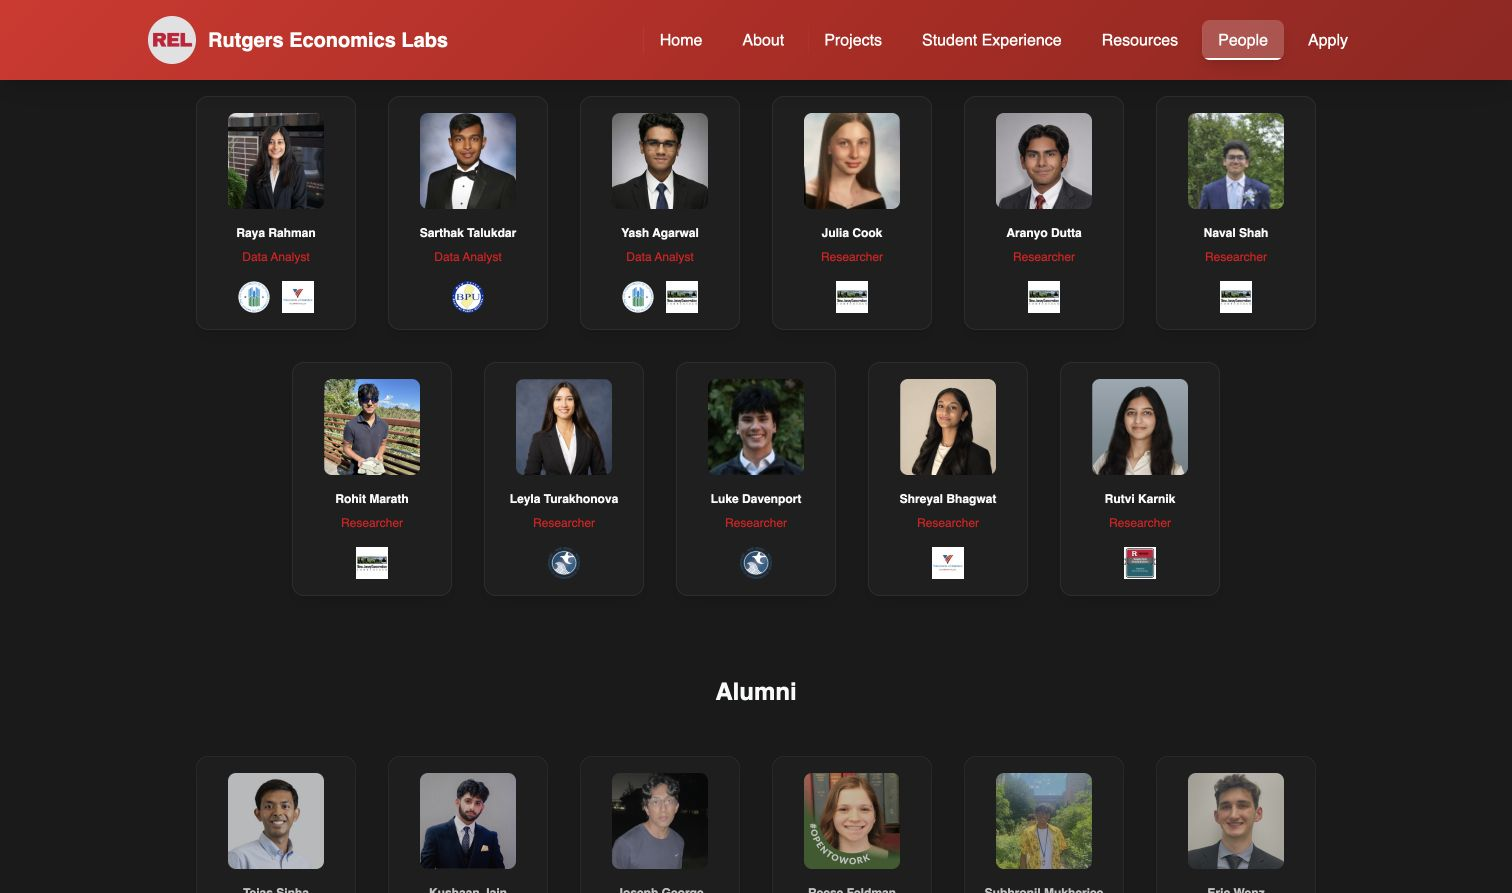
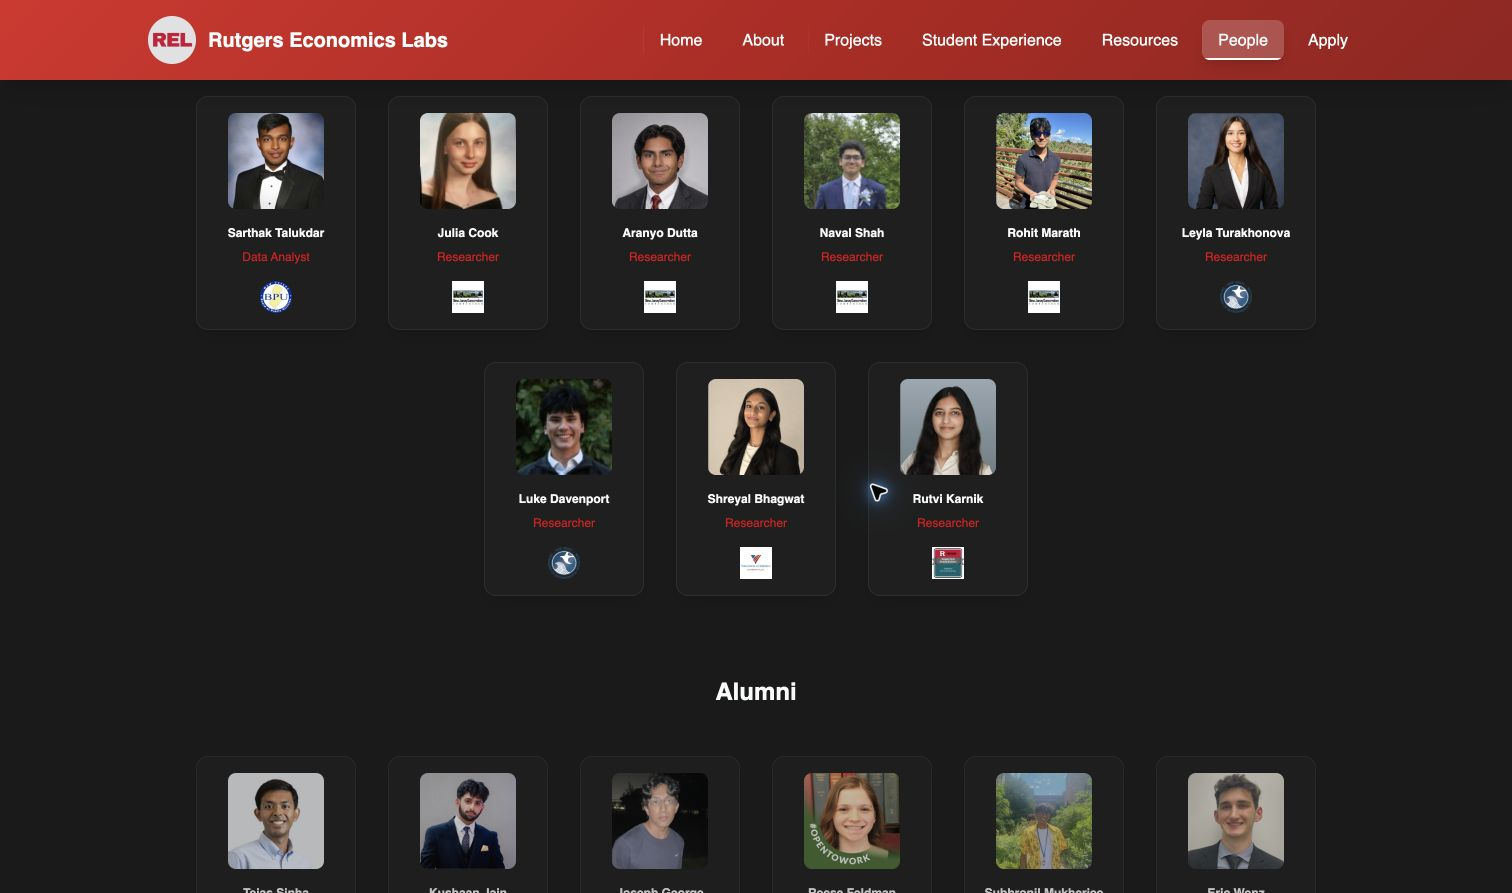
Update current project leads and executive board roles

diff --git a/src/app/people/page.tsx b/src/app/people/page.tsx
@@ -85,26 +85,31 @@ export default function PeoplePage() {
           </p>
         </div>
         {/* Executive Board */}
-        <div className="mb-20 text-center">
-          <h4 className="text-2xl font-bold text-[var(--text-primary)] mb-7 text-center">Executive Board</h4>
+        <section id="executive-board" aria-labelledby="executive-board-heading" className="mb-20 text-center scroll-mt-24">
+          <h2 id="executive-board-heading" className="text-2xl font-bold text-[var(--text-primary)] mb-7 text-center">Executive Board</h2>
           <div className="flex flex-wrap justify-center gap-8 text-center">
             {team.executiveBoard.map((member: TeamMember) => (
               <TeamMemberCard key={member.name} member={member} section="executive" />
             ))}
           </div>
-        </div>
+          <div className="flex flex-wrap justify-center gap-8 mt-8 text-center">
+            {team.formerTeamLeads.map((member: TeamMember) => (
+              <TeamMemberCard key={member.name} member={member} section="board" />
+            ))}
+          </div>
+        </section>
         {/* Team Leads */}
-        <div className="mb-20 text-center">
-          <h4 className="text-2xl font-bold text-[var(--text-primary)] mb-12 text-center">Team Leads</h4>
+        <section id="team-leads" aria-labelledby="team-leads-heading" className="mb-20 text-center scroll-mt-24">
+          <h2 id="team-leads-heading" className="text-2xl font-bold text-[var(--text-primary)] mb-12 text-center">Current Team Leads</h2>
           <div className="flex flex-wrap justify-center gap-6 text-center">
             {team.teamLeads.map((member: TeamMember) => (
               <TeamMemberCard key={member.name} member={member} section="leads" />
             ))}
           </div>
-        </div>
+        </section>
         {/* Members */}
         <div className="mb-20 text-center">
-          <h4 className="text-2xl font-bold text-[var(--text-primary)] mb-12 text-center">Members</h4>
+          <h2 className="text-2xl font-bold text-[var(--text-primary)] mb-12 text-center">Members</h2>
           <div className="flex flex-wrap justify-center gap-8 text-center">
             {team.members.map((member: TeamMember) => (
               <TeamMemberCard key={member.name} member={member} section="members" />
@@ -113,7 +118,7 @@ export default function PeoplePage() {
         </div>
         {/* Alumni */}
         <div className="text-center">
-          <h4 className="text-2xl font-bold text-[var(--text-primary)] mb-12 text-center">Alumni</h4>
+          <h2 className="text-2xl font-bold text-[var(--text-primary)] mb-12 text-center">Alumni</h2>
           <div className="flex flex-wrap justify-center gap-8 text-center">
             {team.alumni.map((member: TeamMember) => (
               <TeamMemberCard key={member.name} member={member} section="alumni" />

diff --git a/docs/screenshots/fall-2026-update/README.md b/docs/screenshots/fall-2026-update/README.md
@@ -7,9 +7,14 @@ Captured November 6, 2026 in Chrome. Updated screenshots show the local producti
 - `projects-original-format-mobile.jpg`: restored project layout at 390 CSS pixels.
 - `people-real-photos-desktop.jpg`: all eight new researchers with LinkedIn portraits and organization logos inside the existing cards.
 - `people-real-photos-mobile.jpg`: portraits and affiliation logos at 390 CSS pixels.
+- `executive-board-desktop.jpg`: one Executive Board section, including four people explicitly titled Former Team Lead.
+- `current-team-leads-desktop.jpg`: the four confirmed current project leads.
+- `current-team-leads-mobile.jpg`: current-lead cards at 390 CSS pixels.
 
 The user requested the original visual format. Text placeholders and current-team chips have been replaced by real portraits and affiliation logos. The original project list presentation is restored. Source links are in [image-sources.md](image-sources.md). Superseded screenshots of the chip design were removed.
 
 Content basis: October 24 kickoff follow-up naming four working groups; November 4–6 project coordination; full project scope drafts and November 6 team briefings. Older planning-sheet recommendations were not used as assignments. Private correspondence, applicant records, contact details and partner files are excluded.
 
 Verification: production build, static export, TypeScript and SEO checks passed. Every portrait/logo file exists; member names are unique; all 15 project-to-person assignments resolve. Browser verification confirmed loaded new portraits and logos, no team-chip links, 15 plain-text roster links, roster-to-profile navigation, and no horizontal overflow at desktop and 390px widths. No browser errors were observed in the revised-flow check. The existing ESLint configuration is empty, so build success does not imply substantive lint coverage.
+
+Leadership assignments were confirmed directly by the project owner on November 6: Yash Agarwal (NJCF), Ani Tiwary (NJDEP), Arnav Nethula (VOA/Camden), and Priya Rana (ROHA). Per the owner’s clarification, Alex Zhang, Aryan Malik, Gokulraj Kumarassamy, and Rahul Rajkumar appear inside Executive Board with Former Team Lead titles; there is no separate former-leadership section. The founders remain in Alumni. Each person appears once, and project lead labels match the People page.
